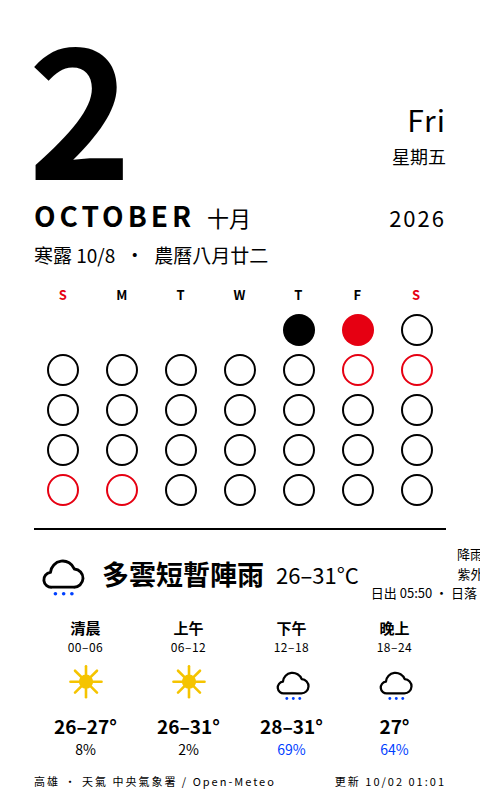
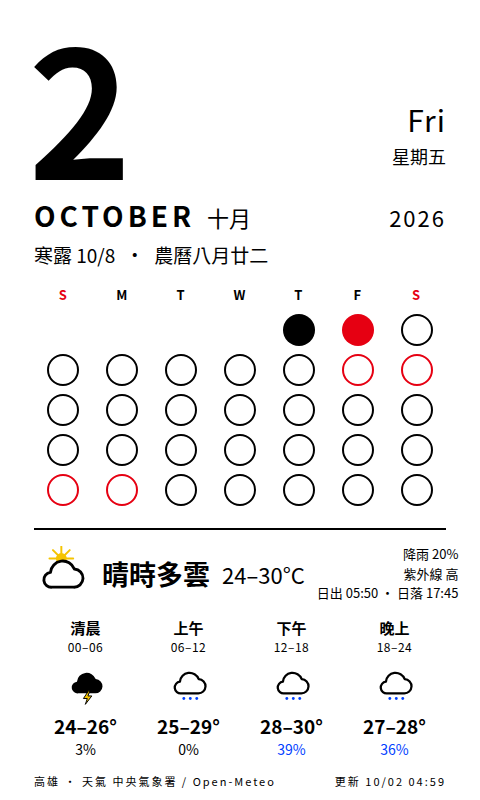
deploy: cf7d1051eb6821bc691ba0ade4beb12cdf9fe0ef

diff --git a/calendar.html b/calendar.html
@@ -54,9 +54,9 @@
   <div class="today"><span class="lunar">寒露 10/8</span><span>·</span><span class="lunar">農曆八月廿二</span></div>
   <div class="grid"><div class="h we">S</div><div class="h">M</div><div class="h">T</div><div class="h">W</div><div class="h">T</div><div class="h">F</div><div class="h we">S</div><div class="dot empty"></div><div class="dot empty"></div><div class="dot empty"></div><div class="dot empty"></div><div class="dot past" title="1"></div><div class="dot now" title="2"></div><div class="dot future" title="3"></div><div class="dot future" title="4"></div><div class="dot future" title="5"></div><div class="dot future" title="6"></div><div class="dot future" title="7"></div><div class="dot future" title="8"></div><div class="dot future hol" title="9"></div><div class="dot future hol" title="10"></div><div class="dot future" title="11"></div><div class="dot future" title="12"></div><div class="dot future" title="13"></div><div class="dot future" title="14"></div><div class="dot future" title="15"></div><div class="dot future" title="16"></div><div class="dot future" title="17"></div><div class="dot future" title="18"></div><div class="dot future" title="19"></div><div class="dot future" title="20"></div><div class="dot future" title="21"></div><div class="dot future" title="22"></div><div class="dot future" title="23"></div><div class="dot future" title="24"></div><div class="dot future hol" title="25"></div><div class="dot future hol" title="26"></div><div class="dot future" title="27"></div><div class="dot future" title="28"></div><div class="dot future" title="29"></div><div class="dot future" title="30"></div><div class="dot future" title="31"></div></div>
   <div class="wx"><div class="line">
-    <div class="wxhead"><svg viewBox="0 0 64 68" xmlns="http://www.w3.org/2000/svg"><path d="M20 50h26a11 11 0 0 0 1-22 15 15 0 0 0-29 4 9 9 0 0 0 2 18z" fill="#fff" stroke="#000" stroke-width="3.5" stroke-linejoin="round"/><g fill="#0040ff"><circle cx="24" cy="58" r="2.2"/><circle cx="34" cy="58" r="2.2"/><circle cx="44" cy="58" r="2.2"/></g></svg><span class="desc">多雲短暫陣雨</span><span class="temp">26–31°C</span>
-      <div class="meta">降雨 30%<br>紫外線 高<br>日出 05:50 · 日落 17:45</div></div>
-    <div class="slots"><div class="slot"><div class="n">清晨</div><div class="hrs">00–06</div><svg viewBox="0 0 64 68" xmlns="http://www.w3.org/2000/svg"><circle cx="32" cy="32" r="11" fill="#f5c400"/><g stroke="#f5c400" stroke-width="4" stroke-linecap="round"><line x1="32" y1="32" x2="32" y2="8" transform="rotate(0 32 32)"/><line x1="32" y1="32" x2="32" y2="8" transform="rotate(45 32 32)"/><line x1="32" y1="32" x2="32" y2="8" transform="rotate(90 32 32)"/><line x1="32" y1="32" x2="32" y2="8" transform="rotate(135 32 32)"/><line x1="32" y1="32" x2="32" y2="8" transform="rotate(180 32 32)"/><line x1="32" y1="32" x2="32" y2="8" transform="rotate(225 32 32)"/><line x1="32" y1="32" x2="32" y2="8" transform="rotate(270 32 32)"/><line x1="32" y1="32" x2="32" y2="8" transform="rotate(315 32 32)"/></g></svg><div class="t">26–27°</div><div class="p dry">8%</div></div><div class="slot"><div class="n">上午</div><div class="hrs">06–12</div><svg viewBox="0 0 64 68" xmlns="http://www.w3.org/2000/svg"><circle cx="32" cy="32" r="11" fill="#f5c400"/><g stroke="#f5c400" stroke-width="4" stroke-linecap="round"><line x1="32" y1="32" x2="32" y2="8" transform="rotate(0 32 32)"/><line x1="32" y1="32" x2="32" y2="8" transform="rotate(45 32 32)"/><line x1="32" y1="32" x2="32" y2="8" transform="rotate(90 32 32)"/><line x1="32" y1="32" x2="32" y2="8" transform="rotate(135 32 32)"/><line x1="32" y1="32" x2="32" y2="8" transform="rotate(180 32 32)"/><line x1="32" y1="32" x2="32" y2="8" transform="rotate(225 32 32)"/><line x1="32" y1="32" x2="32" y2="8" transform="rotate(270 32 32)"/><line x1="32" y1="32" x2="32" y2="8" transform="rotate(315 32 32)"/></g></svg><div class="t">26–31°</div><div class="p dry">2%</div></div><div class="slot"><div class="n">下午</div><div class="hrs">12–18</div><svg viewBox="0 0 64 68" xmlns="http://www.w3.org/2000/svg"><path d="M20 50h26a11 11 0 0 0 1-22 15 15 0 0 0-29 4 9 9 0 0 0 2 18z" fill="#fff" stroke="#000" stroke-width="3.5" stroke-linejoin="round"/><g fill="#0040ff"><circle cx="24" cy="58" r="2.2"/><circle cx="34" cy="58" r="2.2"/><circle cx="44" cy="58" r="2.2"/></g></svg><div class="t">28–31°</div><div class="p ">69%</div></div><div class="slot"><div class="n">晚上</div><div class="hrs">18–24</div><svg viewBox="0 0 64 68" xmlns="http://www.w3.org/2000/svg"><path d="M20 50h26a11 11 0 0 0 1-22 15 15 0 0 0-29 4 9 9 0 0 0 2 18z" fill="#fff" stroke="#000" stroke-width="3.5" stroke-linejoin="round"/><g fill="#0040ff"><circle cx="24" cy="58" r="2.2"/><circle cx="34" cy="58" r="2.2"/><circle cx="44" cy="58" r="2.2"/></g></svg><div class="t">27°</div><div class="p ">64%</div></div></div>
+    <div class="wxhead"><svg viewBox="0 0 64 68" xmlns="http://www.w3.org/2000/svg"><g transform="translate(12 -4) scale(.6)"><circle cx="32" cy="32" r="11" fill="#f5c400"/><g stroke="#f5c400" stroke-width="4" stroke-linecap="round"><line x1="32" y1="32" x2="32" y2="8" transform="rotate(0 32 32)"/><line x1="32" y1="32" x2="32" y2="8" transform="rotate(45 32 32)"/><line x1="32" y1="32" x2="32" y2="8" transform="rotate(90 32 32)"/><line x1="32" y1="32" x2="32" y2="8" transform="rotate(135 32 32)"/><line x1="32" y1="32" x2="32" y2="8" transform="rotate(180 32 32)"/><line x1="32" y1="32" x2="32" y2="8" transform="rotate(225 32 32)"/><line x1="32" y1="32" x2="32" y2="8" transform="rotate(270 32 32)"/><line x1="32" y1="32" x2="32" y2="8" transform="rotate(315 32 32)"/></g></g><path d="M20 50h26a11 11 0 0 0 1-22 15 15 0 0 0-29 4 9 9 0 0 0 2 18z" fill="#fff" stroke="#000" stroke-width="3.5" stroke-linejoin="round"/></svg><span class="desc">晴時多雲</span><span class="temp">24–30°C</span>
+      <div class="meta">降雨 20%<br>紫外線 高<br>日出 05:50 · 日落 17:45</div></div>
+    <div class="slots"><div class="slot"><div class="n">清晨</div><div class="hrs">00–06</div><svg viewBox="0 0 64 68" xmlns="http://www.w3.org/2000/svg"><path d="M20 50h26a11 11 0 0 0 1-22 15 15 0 0 0-29 4 9 9 0 0 0 2 18z" fill="#000"/><path d="M36 46l-8 12h6l-3 9 10-13h-6l3-8z" fill="#f5c400" stroke="#000" stroke-width="1.5" stroke-linejoin="round"/></svg><div class="t">24–26°</div><div class="p dry">3%</div></div><div class="slot"><div class="n">上午</div><div class="hrs">06–12</div><svg viewBox="0 0 64 68" xmlns="http://www.w3.org/2000/svg"><path d="M20 50h26a11 11 0 0 0 1-22 15 15 0 0 0-29 4 9 9 0 0 0 2 18z" fill="#fff" stroke="#000" stroke-width="3.5" stroke-linejoin="round"/><g fill="#0040ff"><circle cx="24" cy="58" r="2.2"/><circle cx="34" cy="58" r="2.2"/><circle cx="44" cy="58" r="2.2"/></g></svg><div class="t">25–29°</div><div class="p dry">0%</div></div><div class="slot"><div class="n">下午</div><div class="hrs">12–18</div><svg viewBox="0 0 64 68" xmlns="http://www.w3.org/2000/svg"><path d="M20 50h26a11 11 0 0 0 1-22 15 15 0 0 0-29 4 9 9 0 0 0 2 18z" fill="#fff" stroke="#000" stroke-width="3.5" stroke-linejoin="round"/><g fill="#0040ff"><circle cx="24" cy="58" r="2.2"/><circle cx="34" cy="58" r="2.2"/><circle cx="44" cy="58" r="2.2"/></g></svg><div class="t">28–30°</div><div class="p ">39%</div></div><div class="slot"><div class="n">晚上</div><div class="hrs">18–24</div><svg viewBox="0 0 64 68" xmlns="http://www.w3.org/2000/svg"><path d="M20 50h26a11 11 0 0 0 1-22 15 15 0 0 0-29 4 9 9 0 0 0 2 18z" fill="#fff" stroke="#000" stroke-width="3.5" stroke-linejoin="round"/><g fill="#0040ff"><circle cx="24" cy="58" r="2.2"/><circle cx="34" cy="58" r="2.2"/><circle cx="44" cy="58" r="2.2"/></g></svg><div class="t">27–28°</div><div class="p ">36%</div></div></div>
   </div></div>
-  <div class="foot"><span>高雄 · 天氣 中央氣象署 / Open-Meteo</span><span>更新 10/02 01:01</span></div>
+  <div class="foot"><span>高雄 · 天氣 中央氣象署 / Open-Meteo</span><span>更新 10/02 04:59</span></div>
 </div></body></html>
